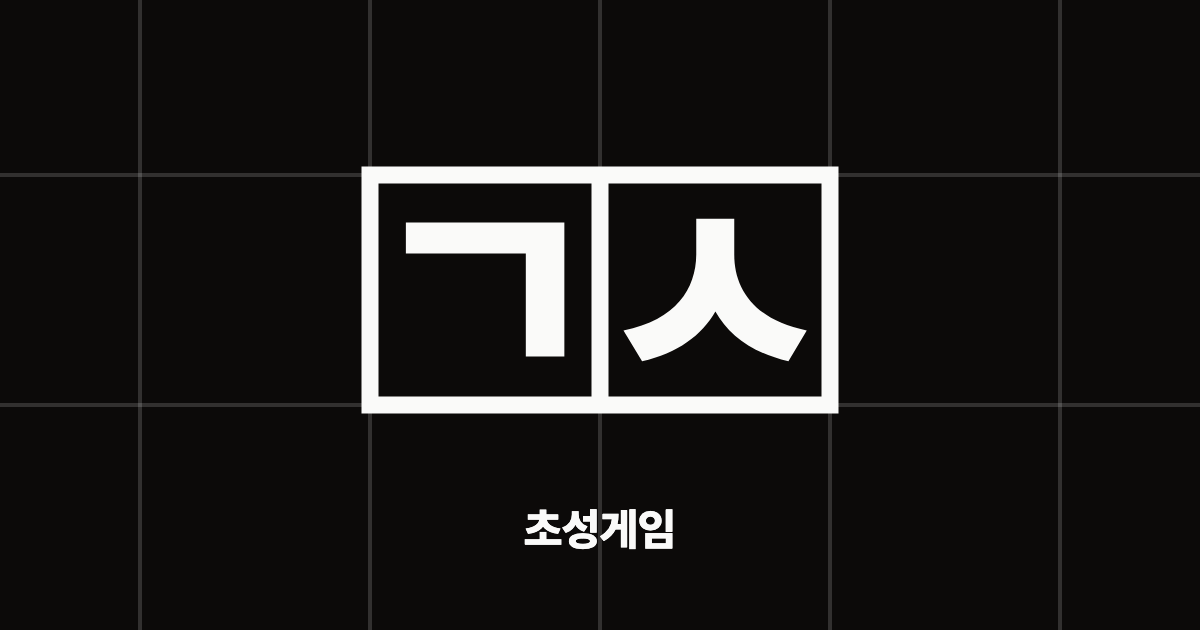
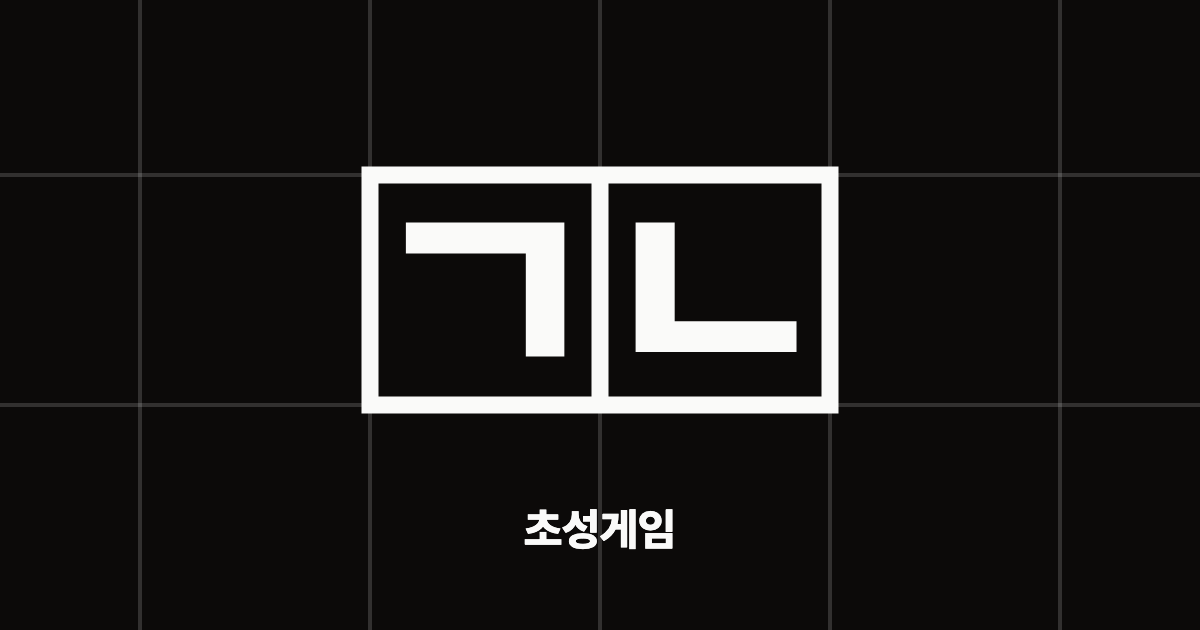
feat(chosung): 게임 이름을 ㄱㅅ에서 ㄱㄴ으로 변경
출시 전에 이름을 ㄱㄴ으로 정했다. 웹 제목·로고·시작 연출·도움말·처리방침,
파비콘·링크 미리보기, 앱 홈 화면 이름·아이콘·시작 화면을 모두 ㄱㄴ으로 맞춘다.
초성 예시로 쓴 ㄱㅅ(감사 → ㄱㅅ 등)과 저장 키(giyeoksiot.*)는 그대로 둔다.
키를 바꾸면 웹 사용자의 최고 기록이 사라진다. 앱 빌드는 4.

Claude-Session: https://claude.ai/code/session_01MeetVH3uyb7iH1jDP85FWw

Changed region(s): [[0.5242, 0.3317, 0.6783, 0.573]]

diff --git a/games/chosung/index.html b/games/chosung/index.html
@@ -7,14 +7,14 @@
       content="width=device-width, initial-scale=1.0, interactive-widget=resizes-content"
     />
     <meta name="description" content="초성 두 글자에 맞는 단어를 계속 입력하는 생존 게임" />
-    <title>ㄱㅅ 초성게임</title>
+    <title>ㄱㄴ 초성게임</title>
     <meta name="theme-color" content="#0c0a09" />
     <link rel="icon" type="image/png" sizes="32x32" href="/favicon-32.png" />
     <link rel="icon" type="image/png" sizes="16x16" href="/favicon-16.png" />
     <link rel="apple-touch-icon" href="/apple-touch-icon.png" />
     <meta property="og:type" content="website" />
     <meta property="og:url" content="https://chosung.uzun-choi.com/" />
-    <meta property="og:title" content="ㄱㅅ 초성게임" />
+    <meta property="og:title" content="ㄱㄴ 초성게임" />
     <meta property="og:description" content="초성 두 글자에 맞는 단어를 계속 입력하는 생존 게임" />
     <meta property="og:image" content="https://chosung.uzun-choi.com/og.png" />
     <meta property="og:image:width" content="1200" />
@@ -32,19 +32,19 @@
         <rect x="0" y="0" width="720" height="360" />
         <line x1="360" y1="0" x2="360" y2="360" />
         <text x="180" y="336">ㄱ</text>
-        <text x="540" y="336">ㅅ</text>
+        <text x="540" y="336">ㄴ</text>
       </svg>
     </div>
     <div class="page">
       <header class="top">
         <p class="crumb">
-          <a href="https://uzun-choi.com">uzun-choi.com</a> / <strong>ㄱㅅ 초성게임</strong>
+          <a href="https://uzun-choi.com">uzun-choi.com</a> / <strong>ㄱㄴ 초성게임</strong>
         </p>
       </header>
 
       <section id="title" class="screen split">
         <div class="col hero">
-          <h1 class="logo" aria-label="ㄱㅅ"><span>ㄱ</span><span>ㅅ</span></h1>
+          <h1 class="logo" aria-label="ㄱㄴ"><span>ㄱ</span><span>ㄴ</span></h1>
         </div>
         <div class="col">
           <p class="lead">초성 두 글자에 맞는 단어를<br />시간이 다 될 때까지 계속 입력하세요.</p>

diff --git a/games/chosung/public/privacy.html b/games/chosung/public/privacy.html
@@ -3,7 +3,7 @@
   <head>
     <meta charset="UTF-8" />
     <meta name="viewport" content="width=device-width, initial-scale=1.0, viewport-fit=cover" />
-    <title>ㄱㅅ 초성게임 개인정보 처리방침</title>
+    <title>ㄱㄴ 초성게임 개인정보 처리방침</title>
     <style>
       :root {
         color-scheme: light dark;
@@ -33,12 +33,12 @@
     </style>
   </head>
   <body>
-    <p><a href="./index.html">← ㄱㅅ 초성게임으로 돌아가기</a></p>
-    <h1>ㄱㅅ 초성게임 개인정보 처리방침</h1>
+    <p><a href="./index.html">← ㄱㄴ 초성게임으로 돌아가기</a></p>
+    <h1>ㄱㄴ 초성게임 개인정보 처리방침</h1>
     <p class="meta">시행일 2026-11-15</p>
 
     <p>
-      ㄱㅅ 초성게임(웹 chosung.uzun-choi.com 및 iOS 앱, 이하 "게임")은 회원가입이나 로그인이 없고,
+      ㄱㄴ 초성게임(웹 chosung.uzun-choi.com 및 iOS 앱, 이하 "게임")은 회원가입이나 로그인이 없고,
       이름·연락처 같은 개인정보를 받거나 서버로 보내지 않습니다.
     </p>
 

diff --git a/packages/dict-pipeline/src/build-cheonjiin.ts b/packages/dict-pipeline/src/build-cheonjiin.ts
@@ -2,7 +2,7 @@
  * 천지인 사전 만들기: `npm run build:cheonjiin -w @tgh/dict-pipeline`
  *
  * - 정답 인정(words.txt): 표준국어대사전·한국어기초사전의 2~4음절 표제어 전부,
- *   그리고 ㄱㅅ와 같은 기준으로 우리말샘의 2음절 표제어. 우리말샘 3~4음절까지 넣으면
+ *   그리고 ㄱㄴ과 같은 기준으로 우리말샘의 2음절 표제어. 우리말샘 3~4음절까지 넣으면
  *   두 배 넘게 커져서(gzip 2MB+) 뺐다.
  * - 판 생성(common.json): 한국어기초사전 초급·중급 명사. 판에 심는 단어는 익숙한 말이어야 한다.
  * 출력: games/cheonjiin/public/dict/words.txt, common.json, LICENSE.txt

diff --git a/games/chosung/public/support.html b/games/chosung/public/support.html
@@ -3,7 +3,7 @@
   <head>
     <meta charset="UTF-8" />
     <meta name="viewport" content="width=device-width, initial-scale=1.0, viewport-fit=cover" />
-    <title>ㄱㅅ 초성게임 도움말</title>
+    <title>ㄱㄴ 초성게임 도움말</title>
     <style>
       :root {
         color-scheme: light dark;
@@ -40,8 +40,8 @@
     </style>
   </head>
   <body>
-    <p><a href="./index.html">← ㄱㅅ 초성게임으로 돌아가기</a></p>
-    <h1>ㄱㅅ 초성게임 도움말</h1>
+    <p><a href="./index.html">← ㄱㄴ 초성게임으로 돌아가기</a></p>
+    <h1>ㄱㄴ 초성게임 도움말</h1>
 
     <h2>게임 방법</h2>
     <p>

diff --git a/apps/chosung-ios/capacitor.config.ts b/apps/chosung-ios/capacitor.config.ts
@@ -1,10 +1,10 @@
 import type { CapacitorConfig } from '@capacitor/cli';
 import { KeyboardResize } from '@capacitor/keyboard';
 
-/** ㄱㅅ iOS 앱. 웹 빌드(games/chosung/dist)를 그대로 싣는다. */
+/** ㄱㄴ iOS 앱. 웹 빌드(games/chosung/dist)를 그대로 싣는다. */
 const config: CapacitorConfig = {
   appId: 'com.uzunchoi.chosung',
-  appName: 'ㄱㅅ',
+  appName: 'ㄱㄴ',
   webDir: '../../games/chosung/dist',
   ios: {
     contentInset: 'never',

diff --git a/packages/dict-pipeline/src/build-chosung-defs.ts b/packages/dict-pipeline/src/build-chosung-defs.ts
@@ -1,5 +1,5 @@
 /**
- * ㄱㅅ 단어 뜻 만들기: `npm run build:chosung-defs -w @tgh/dict-pipeline`
+ * ㄱㄴ 단어 뜻 만들기: `npm run build:chosung-defs -w @tgh/dict-pipeline`
  *
  * 이미 만들어 둔 쌍별 사전(games/chosung/public/dict/<쌍>.json)의 단어마다 뜻을 붙인다.
  * 사전과 같은 쌍 단위로 나눠, 결과 화면에서는 그 판의 초성 파일 하나만 받는다.

diff --git a/packages/dict-pipeline/src/defs.ts b/packages/dict-pipeline/src/defs.ts
@@ -1,5 +1,5 @@
 /**
- * 단어 뜻 모으기: 천지인·ㄱㅅ 뜻 데이터가 같이 쓴다.
+ * 단어 뜻 모으기: 천지인·ㄱㄴ 뜻 데이터가 같이 쓴다.
  *
  * - 뜻 우선순위: 한국어기초사전(쉬운 풀이) → 표준국어대사전 → 우리말샘.
  * - 방언·옛말·북한어 풀이는 다른 풀이가 없을 때만 쓴다.

diff --git a/packages/dict-pipeline/src/build-chosung.ts b/packages/dict-pipeline/src/build-chosung.ts
@@ -1,5 +1,5 @@
 /**
- * ㄱㅅ 사전 만들기: `npm run build:chosung -w @tgh/dict-pipeline`
+ * ㄱㄴ 사전 만들기: `npm run build:chosung -w @tgh/dict-pipeline`
  *
  * raw/ 안의 파일을 전부 읽는다 (zip은 먼저 풀어둔다).
  * - 한국어기초사전 LMF XML(<LexicalEntry>)은 '흔한 단어'로 순위를 매긴다.

diff --git a/README.md b/README.md
@@ -7,7 +7,7 @@
 | #   | 게임         | 한 줄 소개                                            | 주소                    |
 | --- | ------------ | ----------------------------------------------------- | ----------------------- |
 | 1   | 반갈죽       | 드래그로 물체를 정확히 반으로 가르는 정밀 게임        | bangaljuk.uzun-choi.com |
-| 2   | ㄱㅅ         | 초성 두 글자에 맞는 단어를 계속 입력하는 생존 게임    | chosung.uzun-choi.com   |
+| 2   | ㄱㄴ         | 초성 두 글자에 맞는 단어를 계속 입력하는 생존 게임    | chosung.uzun-choi.com   |
 | 3   | 천지인       | 키캡 글자를 드래그로 묶어 단어를 만드는 퍼즐          | cheonjiin.uzun-choi.com |
 | 4   | 열공타자연습 | 내 자료로 암기 타자 연습과 빈칸 문제를 푸는 학습 도구 | yeolgong.uzun-choi.com  |
 
@@ -24,7 +24,7 @@
 - Vite + TypeScript
 - 렌더링: Canvas(반갈죽), DOM(나머지)
 - 입력: Pointer Events, 한글 IME 조합 처리
-- 사전 데이터: 국립국어원 사전 데이터를 빌드 시점에 가공 (ㄱㅅ, 천지인 공용)
+- 사전 데이터: 국립국어원 사전 데이터를 빌드 시점에 가공 (ㄱㄴ, 천지인 공용)
 
 ## 저장소 구조
 
@@ -65,4 +65,4 @@ npm run format           # Prettier
 
 ## 사전 데이터 출처
 
-ㄱㅅ·천지인의 단어 목록(`games/chosung/public/dict/`, `games/cheonjiin/public/dict/`)은 국립국어원 [우리말샘](https://opendict.korean.go.kr)·[표준국어대사전](https://stdict.korean.go.kr)·[한국어기초사전](https://krdict.korean.go.kr)의 표제어를 가공한 것으로, [CC BY-SA 2.0 KR](https://creativecommons.org/licenses/by-sa/2.0/kr/)을 따른다. 원본 XML은 [spellcheck-ko/korean-dict-nikl](https://github.com/spellcheck-ko/korean-dict-nikl) 미러에서 받는다(`npm run fetch -w @tgh/dict-pipeline`).
+ㄱㄴ·천지인의 단어 목록(`games/chosung/public/dict/`, `games/cheonjiin/public/dict/`)은 국립국어원 [우리말샘](https://opendict.korean.go.kr)·[표준국어대사전](https://stdict.korean.go.kr)·[한국어기초사전](https://krdict.korean.go.kr)의 표제어를 가공한 것으로, [CC BY-SA 2.0 KR](https://creativecommons.org/licenses/by-sa/2.0/kr/)을 따른다. 원본 XML은 [spellcheck-ko/korean-dict-nikl](https://github.com/spellcheck-ko/korean-dict-nikl) 미러에서 받는다(`npm run fetch -w @tgh/dict-pipeline`).

diff --git a/packages/dict-pipeline/README.md b/packages/dict-pipeline/README.md
@@ -1,11 +1,11 @@
 # dict-pipeline
 
-국립국어원 사전 데이터를 게임용 사전 파일로 가공하는 빌드 스크립트 (ㄱㅅ, 천지인 공용).
+국립국어원 사전 데이터를 게임용 사전 파일로 가공하는 빌드 스크립트 (ㄱㄴ, 천지인 공용).
 
 - 원본 데이터는 `raw/`에 직접 내려받아 둔다(zip은 풀어서). 저장소에는 올리지 않는다(`.gitignore`).
 - 결과물은 각 게임의 `public/dict/`에 생성하고 커밋한다. 배포 환경에는 원본 데이터가 없으므로 Vercel 빌드에서는 이 스크립트를 실행하지 않는다.
 
-## ㄱㅅ
+## ㄱㄴ
 
 ```sh
 npm run build:chosung -w @tgh/dict-pipeline
@@ -23,6 +23,6 @@ npm run build:chosung -w @tgh/dict-pipeline
 npm run build:cheonjiin -w @tgh/dict-pipeline
 ```
 
-- **정답 인정(`words.txt`):** 표준국어대사전·한국어기초사전의 2~4음절 표제어 전부, 그리고 ㄱㅅ와 같은 기준으로 우리말샘의 2음절 표제어. 우리말샘 3~4음절까지 넣으면 gzip 2MB가 넘어서 뺐다(지금 약 1MB).
+- **정답 인정(`words.txt`):** 표준국어대사전·한국어기초사전의 2~4음절 표제어 전부, 그리고 ㄱㄴ과 같은 기준으로 우리말샘의 2음절 표제어. 우리말샘 3~4음절까지 넣으면 gzip 2MB가 넘어서 뺐다(지금 약 1MB).
 - **판 생성(`common.json`):** 한국어기초사전의 초급·중급 명사. 판에 심는 단어는 익숙한 말이어야 한다.
 - 출력: `games/cheonjiin/public/dict/words.txt`, `common.json`

diff --git a/prds/02-giyeok-siot/PRD.md b/prds/02-giyeok-siot/PRD.md
@@ -1,5 +1,7 @@
 # PRD — ㄱㅅ (Giyeok-Siot)
 
+> 2026-11-13: 게임 이름을 ㄱㅅ에서 ㄱㄴ으로 바꿨다. 아래는 처음 기획 그대로 둔다.
+
 > Mini-game #2 of the 초미니게임천국 (Tiny Game Heaven) series
 > Status: Draft v0.1 · Last updated: 2026-11-04
 
